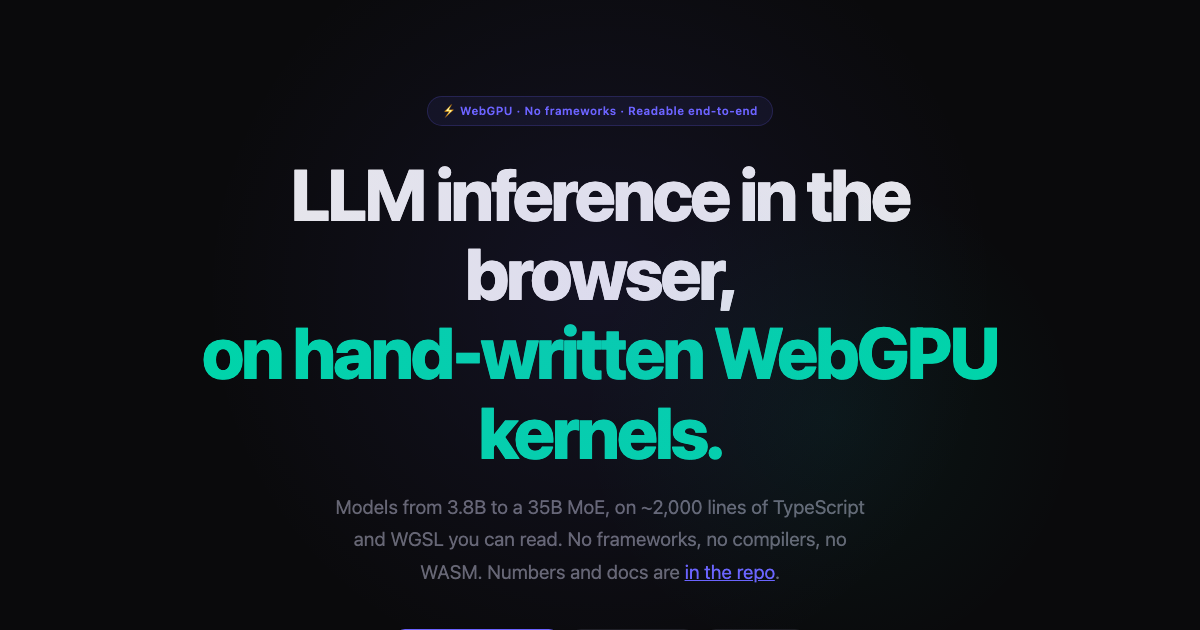
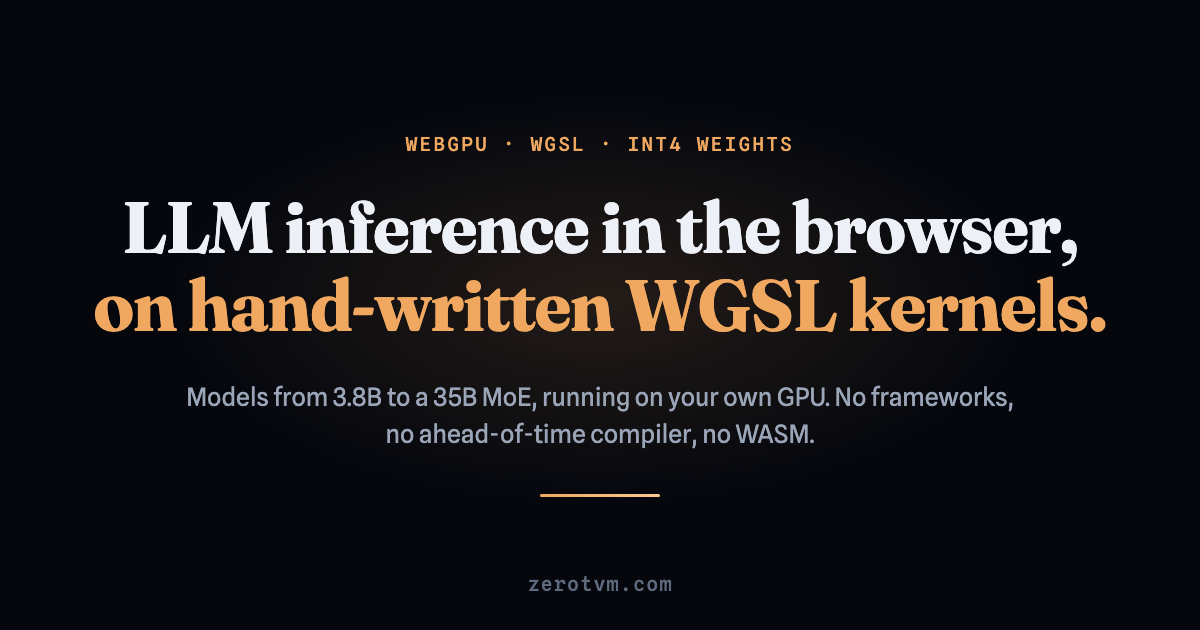
site: stop counting things
The share card led with "~2,000 lines of TypeScript and WGSL you can read"
against an actual that is an order of magnitude larger, on the image every
share of this link unfurls, directly under a badge reading "Readable
end-to-end". It was also still on the old green brand while the site runs
amber. Redrawn: leads with what this is, no counts anywhere, site accent.
public/og-card.html is the source; render it at 1200x630 with headless Chrome.

Adding og:image to the landing two commits ago put that claim on the one URL
most likely to be posted, so this got worse before it got better.

Every remaining count claim is gone from README and CLAUDE:

- "ten WGSL kernel roles and ~2,000 lines of TypeScript" in the README lead
- per-module line counts through the whole source map, understated 2-4x
- "18 hand-written WGSL files (~2,150 lines)" and "the 9-variant int4_matmul
  family" — both predate the affine, MoE and q3 work entirely
- "55 WGSL kernels — 37 files + 18 generated" in CLAUDE's goal
- "157 kB JS bundle", measured at 432 kB
- the pinned WebLLM version in the harness description, four releases behind

CLAUDE.md now says not to publish counts at all, and why: they have been wrong
on every surface that carried them, in both directions, and they rot on every
commit. "10 kernel roles" is the claim that does not.

Also here: CLAUDE's architecture list still described six pages this branch
deleted, and public/og.svg is gone — dead, referenced by nothing, publicly
[…]

diff --git a/public/og-card.html b/public/og-card.html
@@ -1,0 +1,66 @@
+<meta charset="utf-8">
+<style>
+  @font-face {
+    font-family: 'Fraunces'; font-weight: 700; font-display: block;
+    src: url('file:///Users/ahmetbarisgunaydin/dev/zero-tvm/public/fonts/f1-fraunce.woff2') format('woff2');
+  }
+  @font-face {
+    font-family: 'Spline Sans'; font-weight: 400; font-display: block;
+    src: url('file:///Users/ahmetbarisgunaydin/dev/zero-tvm/public/fonts/f4-plinean.woff2') format('woff2');
+  }
+  @font-face {
+    font-family: 'Spline Sans Mono'; font-weight: 500; font-display: block;
+    src: url('file:///Users/ahmetbarisgunaydin/dev/zero-tvm/public/fonts/f6-plineanmono.woff2') format('woff2');
+  }
+  * { margin: 0; padding: 0; box-sizing: border-box; }
+  html, body { width: 1200px; height: 630px; }
+  body {
+    background: #05070d;
+    color: #edf0f6;
+    font-family: 'Spline Sans', system-ui, sans-serif;
+    display: flex; flex-direction: column;
+    justify-content: center; align-items: center;
+    padding: 0 92px; text-align: center;
+    position: relative; overflow: hidden;
+  }
+  /* A warm pool behind the wordmark, same amber the site runs on. */
+  .glow {
+    position: absolute; width: 900px; height: 420px; left: 150px; top: 90px;
+    background: radial-gradient(ellipse at center, #f0a86021 0%, transparent 68%);
+    filter: blur(8px);
+  }
+  .eyebrow {
+    position: relative;
+    font-family: 'Spline Sans Mono', ui-monospace, monospace;
+    font-size: 19px; letter-spacing: 0.13em; text-transform: uppercase;
+    color: #f0a860; margin-bottom: 34px;
+  }
+  h1 {
+    position: relative;
+    font-family: 'Fraunces', Georgia, serif; font-weight: 700;
+    font-size: 72px; line-height: 1.08; letter-spacing: -0.015em;
+    max-width: 1016px;
+  }
+  h1 .accent { color: #f0a860; }
+  p {
+    position: relative;
+    margin-top: 34px; font-size: 25px; line-height: 1.5;
+    color: #9aa5b8; max-width: 830px;
+  }
+  .rule {
+    position: relative; margin-top: 40px;
+    width: 120px; height: 3px; border-radius: 2px;
+    background: linear-gradient(90deg, #f0a860, #ffc98f);
+  }
+  .domain {
+    position: absolute; bottom: 34px; left: 0; right: 0;
+    font-family: 'Spline Sans Mono', ui-monospace, monospace;
+    font-size: 20px; letter-spacing: 0.06em; color: #5e6a7e;
+  }
+</style>
+<div class="glow"></div>
+<div class="eyebrow">WebGPU · WGSL · int4 weights</div>
+<h1>LLM inference in the browser,<br><span class="accent">on hand-written WGSL kernels.</span></h1>
+<p>Models from 3.8B to a 35B MoE, running on your own GPU. No frameworks, no ahead-of-time compiler, no WASM.</p>
+<div class="rule"></div>
+<div class="domain">zerotvm.com</div>

diff --git a/README.md b/README.md
@@ -10,9 +10,8 @@
 
 **[zerotvm.com](https://zerotvm.com)** — pick a model, it runs in your tab.
 
-Zero-TVM is an LLM inference engine for the browser, written by hand: ten
-WGSL kernel roles and ~2,000 lines of TypeScript. No WebLLM, no TVM, no ONNX,
-no WASM runtime.
+Zero-TVM is an LLM inference engine for the browser, written by hand in
+TypeScript and WGSL. No WebLLM, no TVM, no ONNX, no WASM runtime.
 
 - Models from a 3.8B dense to Qwen3.6-35B-A3B, a 256-expert sparse MoE
   (which WebLLM does not ship)
@@ -118,7 +117,7 @@ test-chain.html         → src/compiler/test-chain.ts
 ```
 src/
   zero-tvm/             THE RESULT
-    engine-core.ts        ~1,000 lines — THE decode engine: buildDecodeEngine,
+    engine-core.ts        THE decode engine: buildDecodeEngine,
                           allocKVPages/allocKVPagesInt8, the 32-layer decode
                           loop. No DOM. Parameterized by mode: unfused
                           reference path (validate, 9 dispatches/layer) or
@@ -127,38 +126,38 @@ src/
                           generate/forwardLogits and the pipelined readback
                           ring (generatePipelined). Driven by BOTH chat.ts
                           and validate.ts.
-    chat.ts               ~500 lines — thin chat page: DOM state, boot wiring
+    chat.ts               thin chat page: DOM state, boot wiring
                           (via loading-ui's bootEngine), streaming render.
-    variants.ts           ~160 lines — URL-flag A/B harness (?sg/?matmul=/
+    variants.ts           URL-flag A/B harness (?sg/?matmul=/
                           ?kv8=1 …) and variant→pipeline resolution.
-    markdown.ts           ~170 lines — minimal streaming Markdown renderer.
-    bench-console.ts      ~160 lines — window.bench / benchBatched / specSim
+    markdown.ts           minimal streaming Markdown renderer.
+    bench-console.ts      window.bench / benchBatched / specSim
                           devtools harnesses for the chat page.
-    spec-sim.ts           120 lines — CPU-side prompt-lookup speculative-decoding
+    spec-sim.ts           CPU-side prompt-lookup speculative-decoding
                           acceptance simulator. Used to falsify a speed-up
                           experiment before building shaders.
-    tokenizer.ts          ~280 lines — BPE tokenizer from scratch
-    weight-loader.ts      ~300 lines — direct HuggingFace Phi-3-MLC fetch,
+    tokenizer.ts          BPE tokenizer from scratch
+    weight-loader.ts      direct HuggingFace Phi-3-MLC fetch,
                           OPFS cache, layer-ordered streaming
-    validate.ts           ~320 lines — multi-prompt forward-pass smoke test
-    loading-ui.ts         ~280 lines — shared progress-bar UI + bootEngine
+    validate.ts           multi-prompt forward-pass smoke test
+    loading-ui.ts         shared progress-bar UI + bootEngine
                           flow used by both chat and validate
 
   webllm-bench/
-    main.ts               Head-to-head harness: WebLLM v0.2.80 wired against
+    main.ts               Head-to-head harness: WebLLM wired against
                           /local-weights/* so the comparison runs on identical
                           bits. See BENCH.md.
 
   compiler/             THE SHADERS
-    compiler.ts           ~280 lines — pipeline creation, weight buffer
+    compiler.ts           pipeline creation, weight buffer
                           allocation. Not an optimizing compiler — the name is
                           historical.
-    shader-prelude.ts     ~70 lines — PHI3 model constants (single source of
+    shader-prelude.ts     PHI3 model constants (single source of
                           truth) rendered as a WGSL `const` prelude that is
                           injected into every shader at module creation, so no
                           model-shape literal lives inside the WGSL itself.
-    shaders/              18 hand-written WGSL files (~2,150 lines) + one
-                          generator for the 9-variant int4_matmul family:
+    shaders/              hand-written WGSL, plus a generator for the
+                          int4_matmul variant family:
       add_norm.wgsl              Residual add + RMSNorm fused
       embedding.wgsl
       rms_norm.wgsl

diff --git a/CLAUDE.md b/CLAUDE.md
@@ -2,12 +2,14 @@
 
 ## Goal
 
-Full browser-native Phi-3-mini inference on 10 hand-written kernel roles
-(55 WGSL kernels — 37 files + 18 generated int4-matmul variants, counting
-subgroup/tiled/int8 variants) + ~2k lines of
-TypeScript — replacing the 85 TVM-autotuned shaders WebLLM ships. The
+Browser-native LLM inference on hand-written WGSL kernel roles and
+TypeScript — replacing the TVM-autotuned shaders WebLLM ships. The
 pedagogical thesis: the entire LLM forward pass is readable end-to-end
 in a single sitting.
+
+Do NOT publish file, kernel or line counts. They have been wrong on every
+surface that carried them, in both directions, and they rot on every commit.
+"10 kernel roles" is the claim that does not.
 
 Head-to-head vs WebLLM numbers live in `BENCH.md`.
 
@@ -15,12 +17,16 @@ Head-to-head vs WebLLM numbers live in `BENCH.md`.
 
 Vite-built multi-page static site. Each HTML file is a standalone demo:
 
-- `index.html` — marketing essay / hub
-- `zero-tvm.html` — the hand-written Phi-3 chat (157 kB JS bundle)
-- `compiler-chat.html` — WebLLM/TVM reference chat (5.9 MB bundle)
-- `docs.html`, `architecture.html`, `demo.html`, `dump.html`,
-  `shaders.html`, `validate.html`, `webllm-bench.html` — docs, shader
-  viewers, benchmark runner.
+- `index.html` — landing: hero, kernel window, model carousel
+- `zero-tvm.html` — the hand-written chat surface
+- `docs.html`, `validate.html` — docs and the validation harness
+- `share.html` — host a model for other devices; `agent-host.html` — the
+  local agent-server surface (noindex, needs `npm run agent`)
+
+DELETED 2026-08-14 (pre-publish review): `architecture.html`, `demo.html`,
+`compiler-chat.html`, `dump.html`, `shaders.html`, `webllm-bench.html`. All
+were orphaned yet in the sitemap; `dump`/`shaders`/`webllm-bench` started
+multi-GB downloads on page load. Their src/ modules remain, unbuilt.
 - `src/zero-tvm/` — the hand-written engine. There is ONE decode loop:
   `engine-core.ts`'s `buildDecodeEngine(device, weights, kv, opts)`,
   driven by BOTH pages. `validate.html` (via `loading-ui.ts`'s
